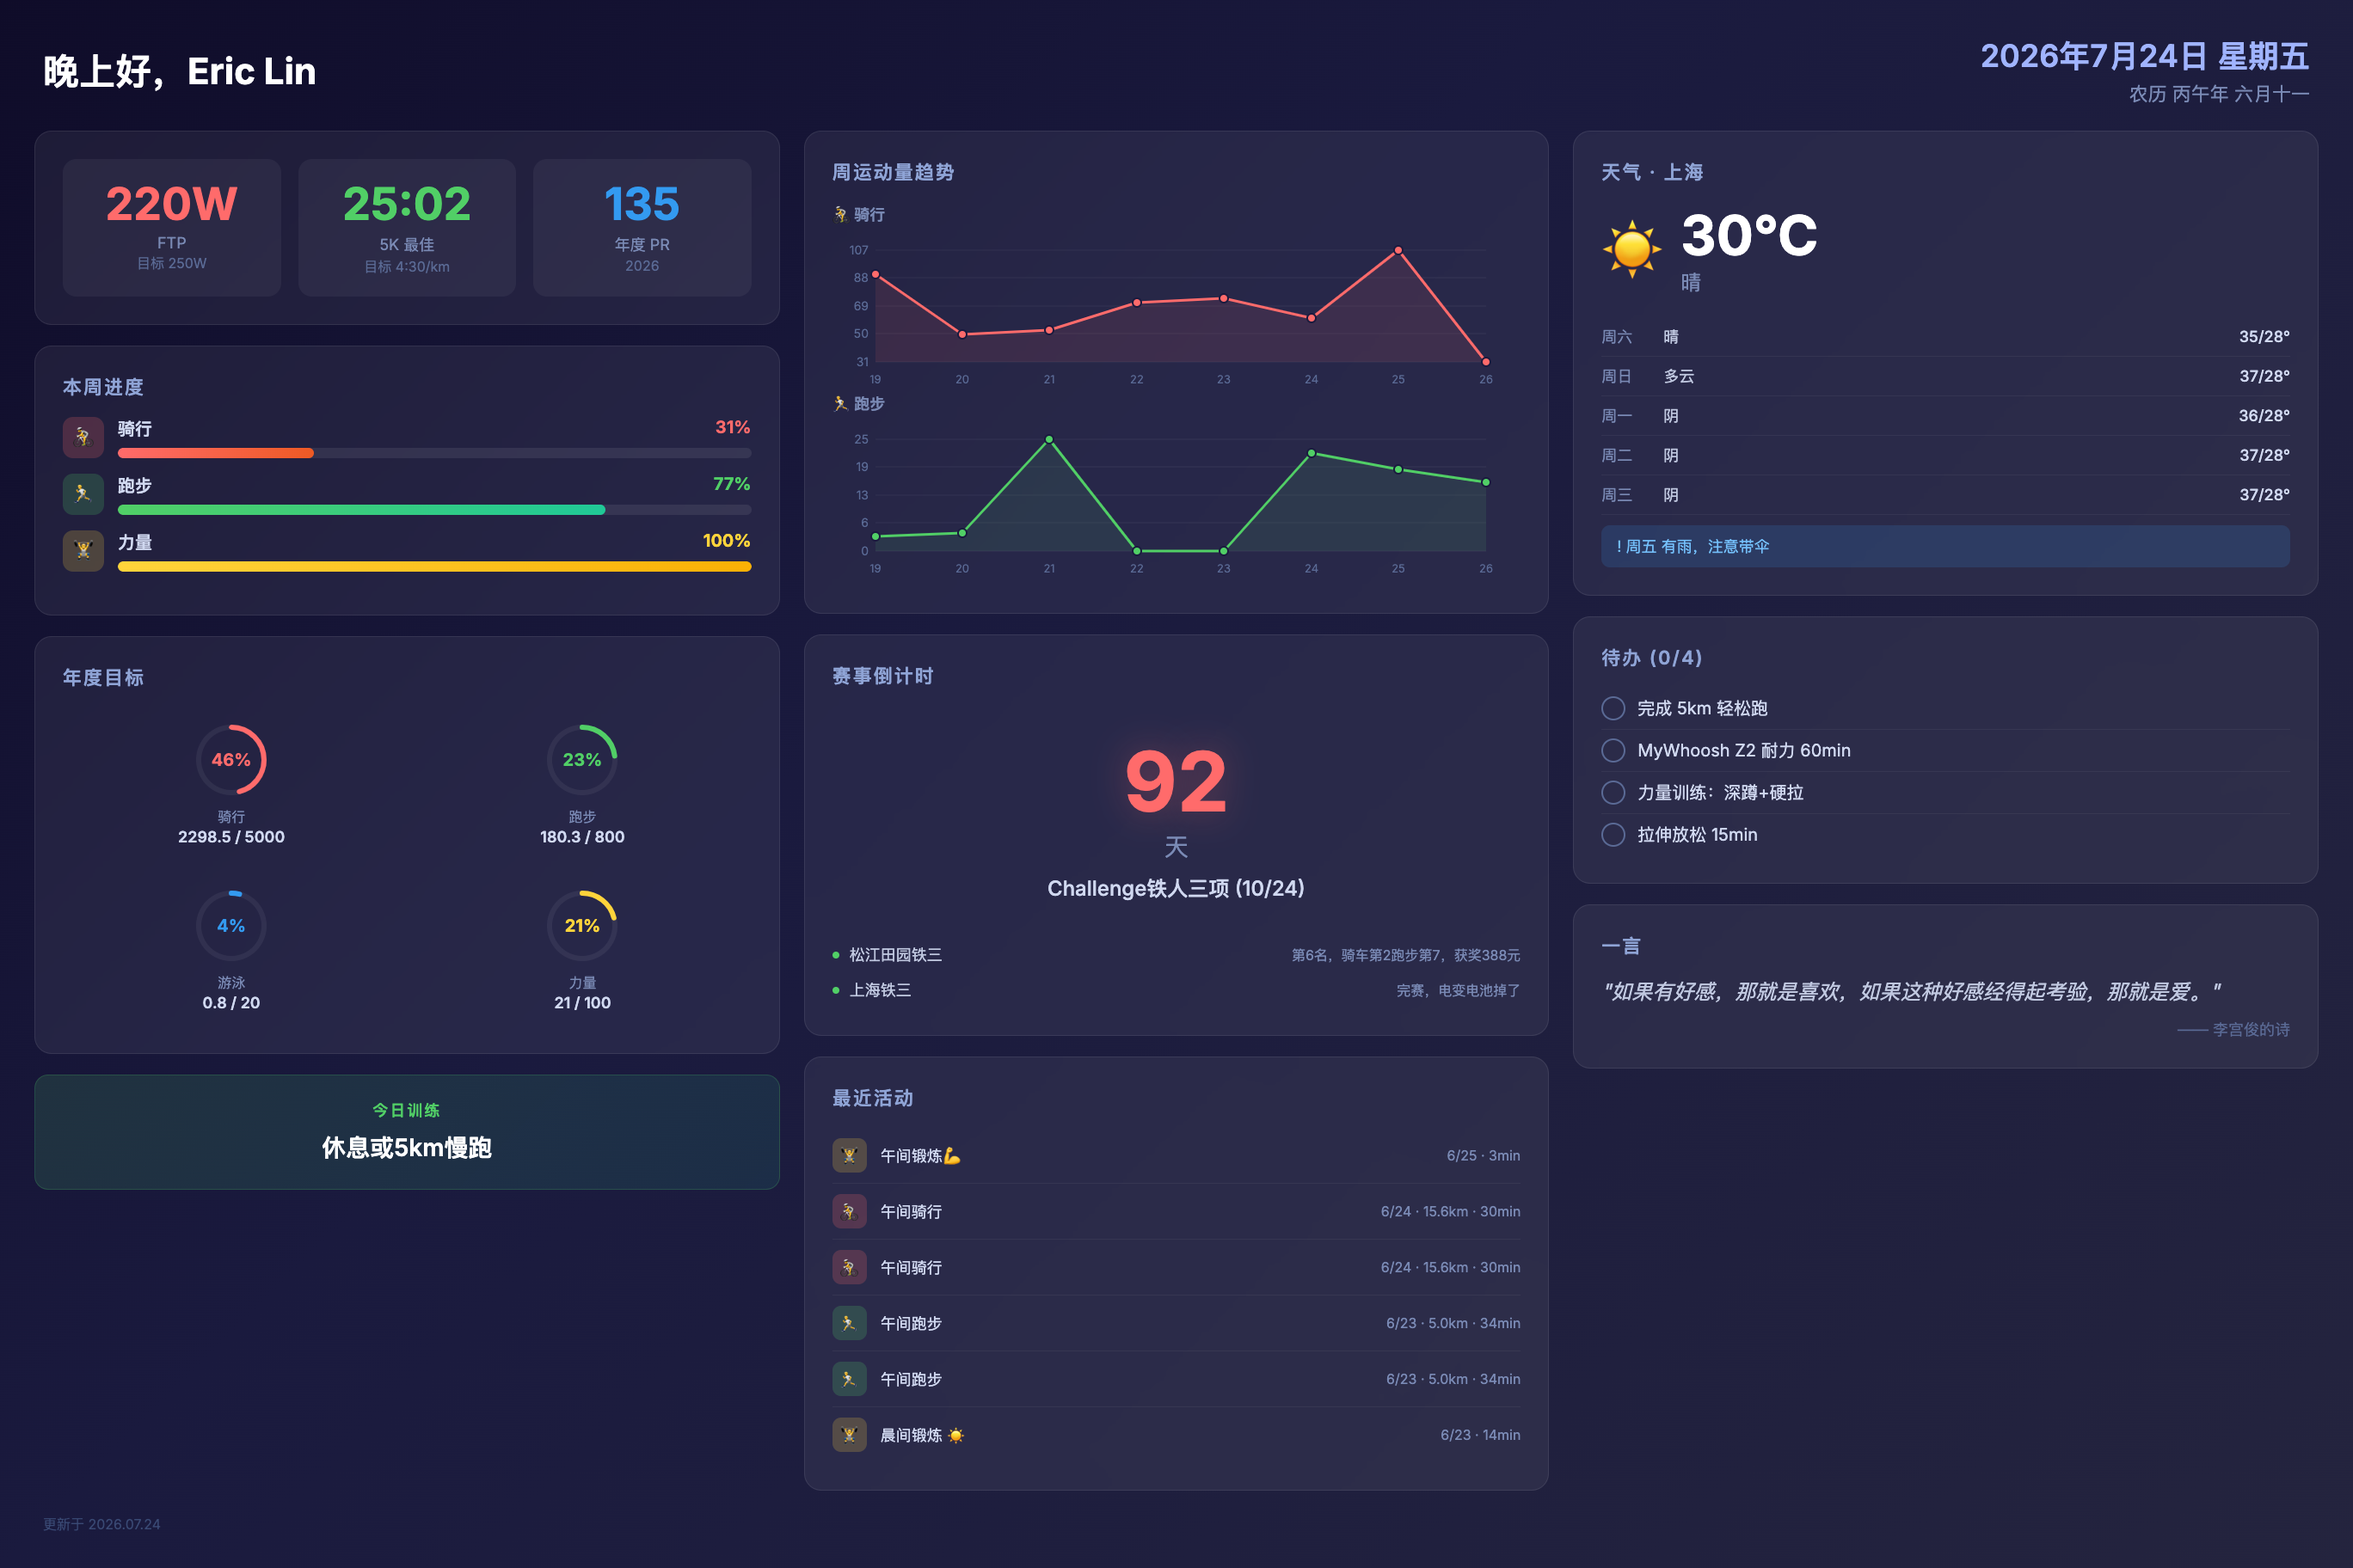
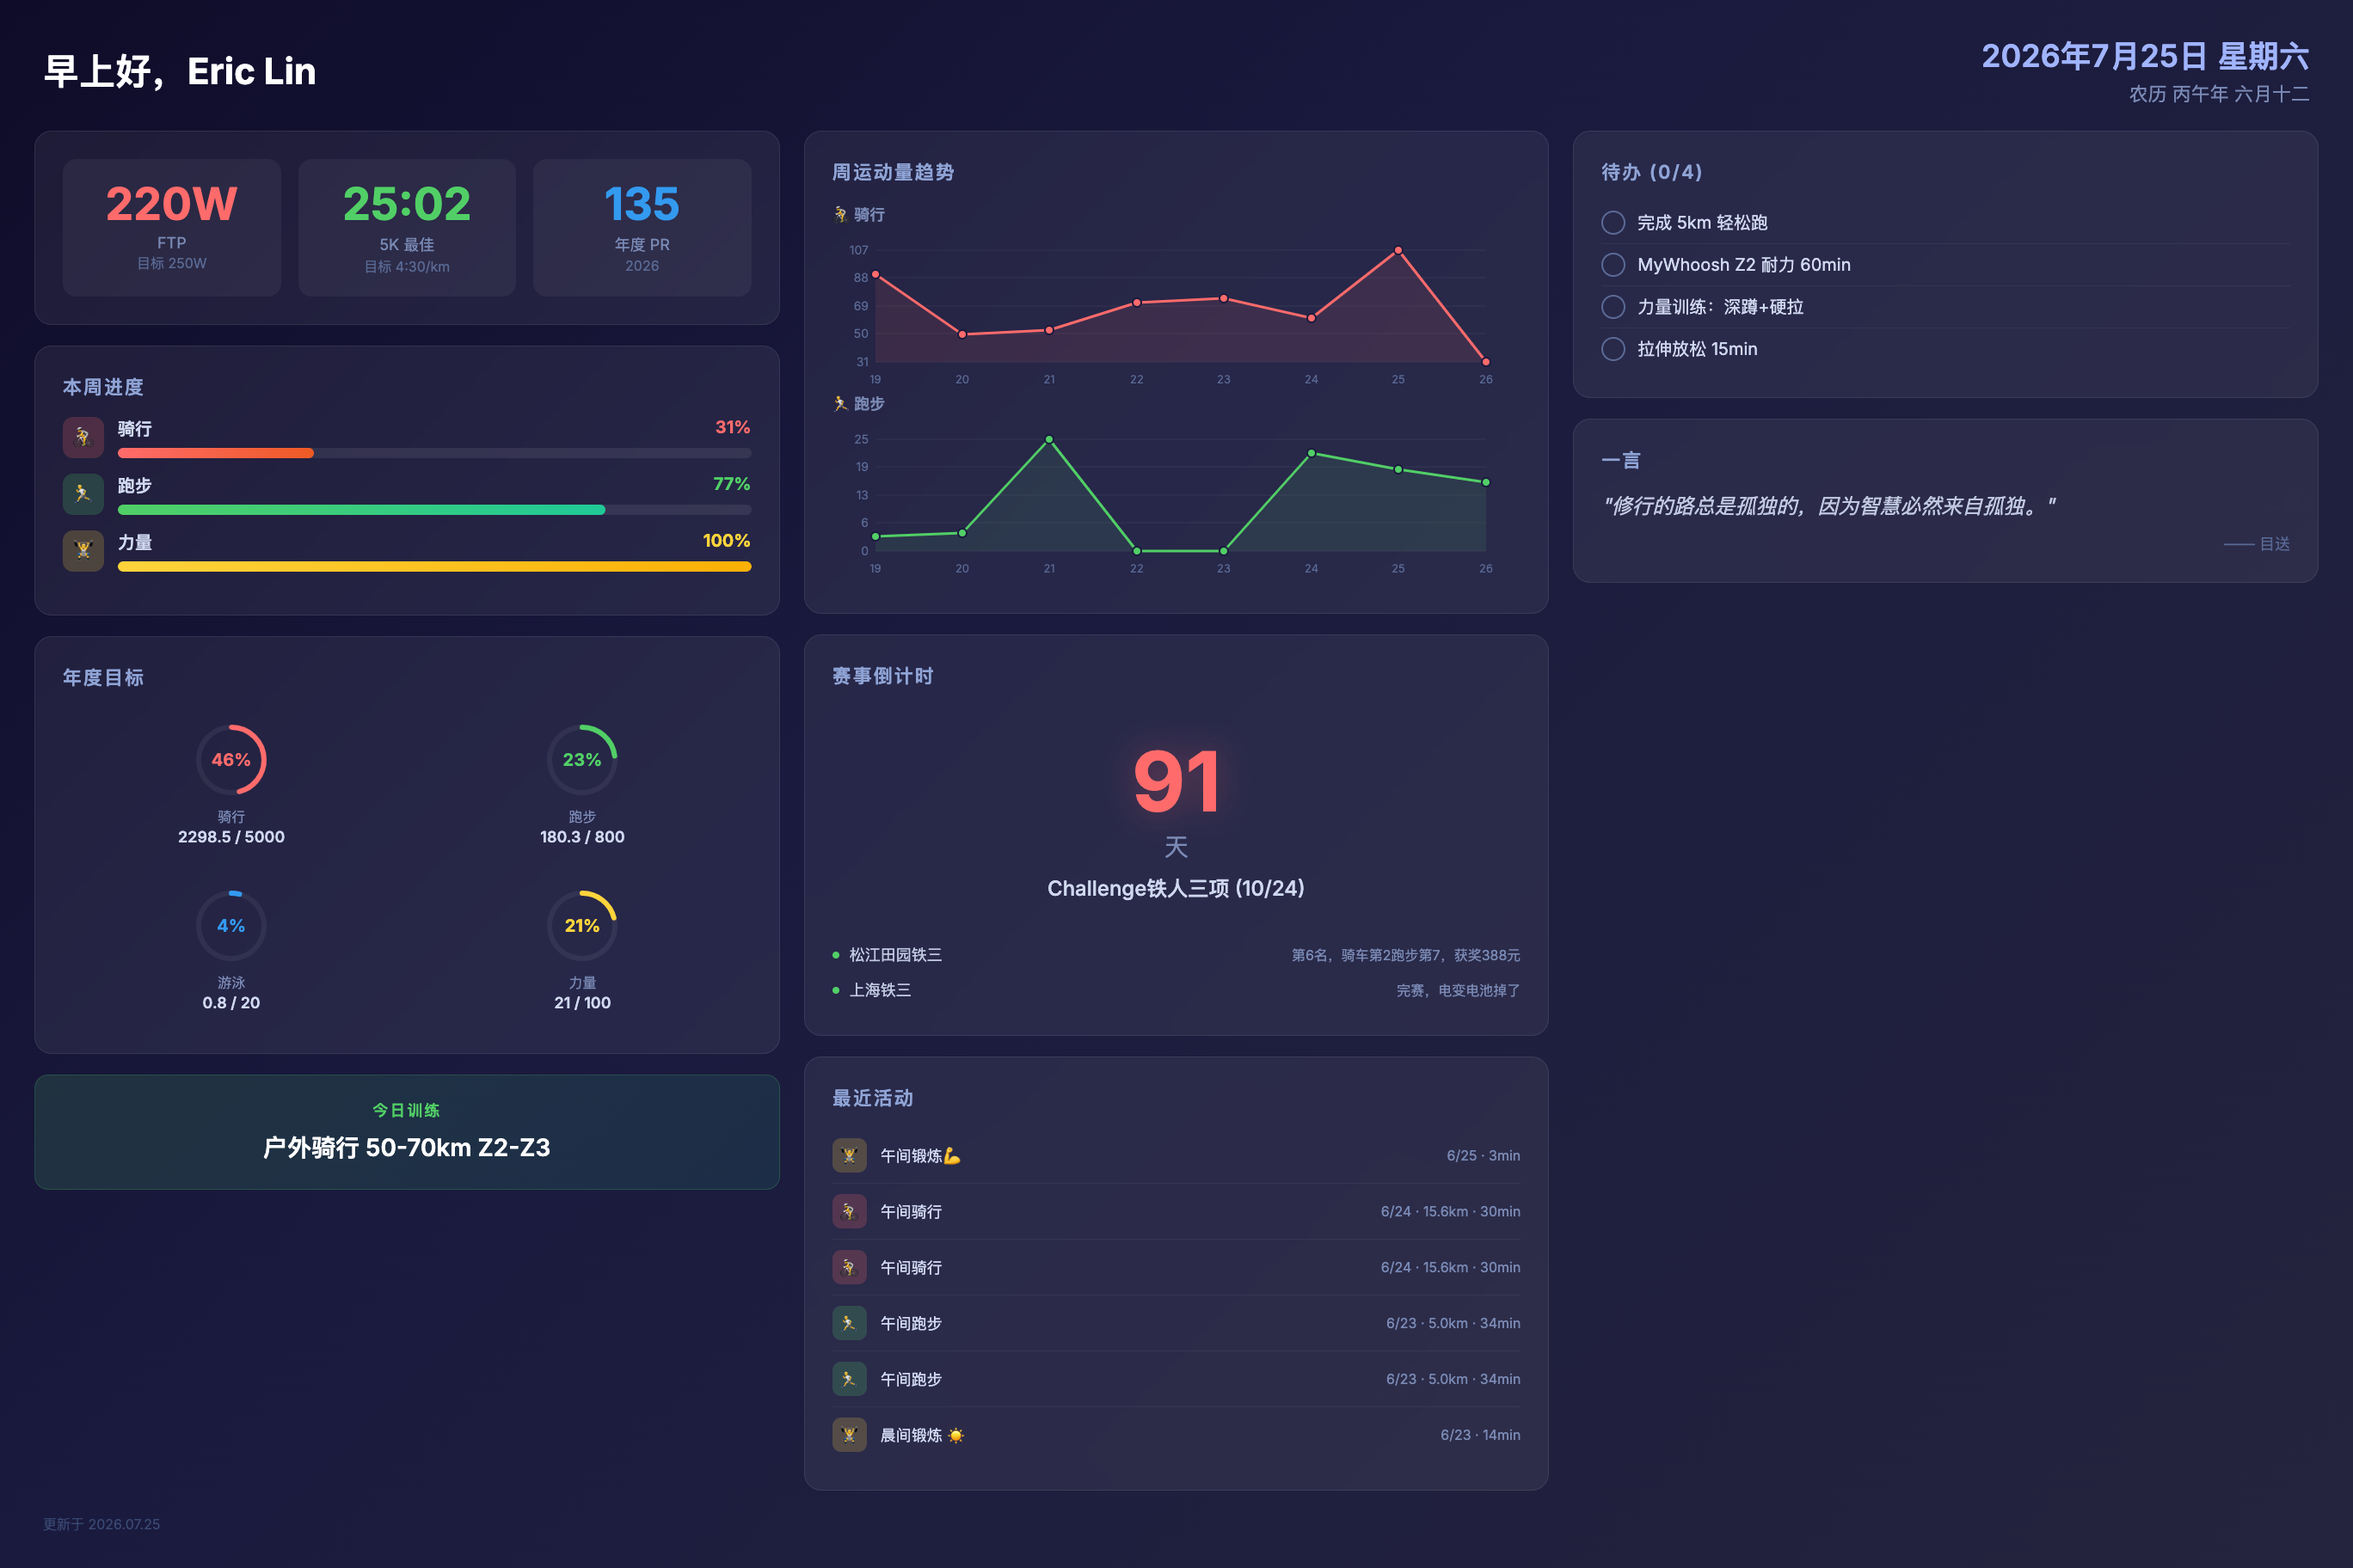
deploy: 2026-07-25-07:00

diff --git a/screensaver.html b/screensaver.html
@@ -490,13 +490,13 @@ html, body {
 <!-- ===== TOP BAR ===== -->
 <div class="top-bar">
   <div>
-    <div class="greeting">晚上好，Eric Lin</div>
+    <div class="greeting">早上好，Eric Lin</div>
     
   </div>
   <div class="date-info">
-    <div class="solar-date">2026年7月24日 星期五</div>
+    <div class="solar-date">2026年7月25日 星期六</div>
     
-    <div class="lunar-date">农历 丙午年 六月十一</div>
+    <div class="lunar-date">农历 丙午年 六月十二</div>
     
   </div>
 </div>
@@ -638,7 +638,7 @@ html, body {
   
   <div class="ai-today-card">
     <div class="ai-today-label">今日训练</div>
-    <div class="ai-today-text">休息或5km慢跑</div>
+    <div class="ai-today-text">户外骑行 50-70km Z2-Z3</div>
   </div>
   
 
@@ -732,7 +732,7 @@ html, body {
   <div class="card">
     <div class="card-title">赛事倒计时</div>
     <div class="race-countdown">
-      <div class="countdown-number">92</div>
+      <div class="countdown-number">91</div>
       <div class="countdown-unit">天</div>
       <div class="countdown-name">Challenge铁人三项 (10/24)</div>
     </div>
@@ -805,58 +805,6 @@ html, body {
 
   <!-- Weather -->
   
-  <div class="card">
-    <div class="card-title">天气 · 上海</div>
-    <div class="weather-current">
-      <div class="weather-icon-big">☀</div>
-      <div>
-        <div class="weather-temp-big">30°C</div>
-        <div class="weather-desc">晴</div>
-      </div>
-    </div>
-    
-    
-    <div class="forecast-row">
-      <div class="forecast-day">周六</div>
-      <div class="forecast-desc">晴</div>
-      <div class="forecast-precip"></div>
-      <div class="forecast-range">35/28°</div>
-    </div>
-    
-    <div class="forecast-row">
-      <div class="forecast-day">周日</div>
-      <div class="forecast-desc">多云</div>
-      <div class="forecast-precip"></div>
-      <div class="forecast-range">37/28°</div>
-    </div>
-    
-    <div class="forecast-row">
-      <div class="forecast-day">周一</div>
-      <div class="forecast-desc">阴</div>
-      <div class="forecast-precip"></div>
-      <div class="forecast-range">36/28°</div>
-    </div>
-    
-    <div class="forecast-row">
-      <div class="forecast-day">周二</div>
-      <div class="forecast-desc">阴</div>
-      <div class="forecast-precip"></div>
-      <div class="forecast-range">37/28°</div>
-    </div>
-    
-    <div class="forecast-row">
-      <div class="forecast-day">周三</div>
-      <div class="forecast-desc">阴</div>
-      <div class="forecast-precip"></div>
-      <div class="forecast-range">37/28°</div>
-    </div>
-    
-    
-    
-    <div class="rain-alert">! 周五 有雨，注意带伞</div>
-    
-  </div>
-  
 
   <!-- Todos -->
   
@@ -902,9 +850,9 @@ html, body {
   
   <div class="card">
     <div class="card-title">一言</div>
-    <div class="quote-text">"如果有好感，那就是喜欢，如果这种好感经得起考验，那就是爱。"</div>
+    <div class="quote-text">"修行的路总是孤独的，因为智慧必然来自孤独。"</div>
     
-    <div class="quote-from">—— 李宫俊的诗</div>
+    <div class="quote-from">—— 目送</div>
     
   </div>
   
@@ -913,7 +861,7 @@ html, body {
 
 <!-- ===== BOTTOM BAR ===== -->
 <div class="bottom-bar">
-  <div class="update-time">更新于 2026.07.24</div>
+  <div class="update-time">更新于 2026.07.25</div>
 </div>
 
 </div>

diff --git a/life.html b/life.html
@@ -89,7 +89,7 @@ html, body {
 <table class="header-table">
   <tr>
     <td class="header-left">生活</td>
-    <td class="header-right">2026.07.24</td>
+    <td class="header-right">2026.07.25</td>
   </tr>
 </table>
 
@@ -133,84 +133,16 @@ html, body {
 
 <!-- ===== 天气 ===== -->
 
-<div class="box">
-  <p class="section-title">☀ 天气 · 上海</p>
-  <table class="weather-table">
-    <tr>
-      <td class="weather-icon">*</td>
-      <td class="weather-temp">30°C</td>
-      <td class="weather-desc">晴</td>
-    </tr>
-  </table>
-  
-  <table class="forecast-table">
-    
-    <tr>
-      <td class="forecast-day">周六</td>
-      <td class="forecast-icon">*</td>
-      <td>晴</td>
-      <td class="forecast-range">35/28°C</td>
-    </tr>
-    
-    <tr>
-      <td class="forecast-day">周日</td>
-      <td class="forecast-icon">~</td>
-      <td>多云</td>
-      <td class="forecast-range">37/28°C</td>
-    </tr>
-    
-    <tr>
-      <td class="forecast-day">周一</td>
-      <td class="forecast-icon">~</td>
-      <td>阴</td>
-      <td class="forecast-range">36/28°C</td>
-    </tr>
-    
-    <tr>
-      <td class="forecast-day">周二</td>
-      <td class="forecast-icon">~</td>
-      <td>阴</td>
-      <td class="forecast-range">37/28°C</td>
-    </tr>
-    
-    <tr>
-      <td class="forecast-day">周三</td>
-      <td class="forecast-icon">~</td>
-      <td>阴</td>
-      <td class="forecast-range">37/28°C</td>
-    </tr>
-    
-    <tr>
-      <td class="forecast-day">周四</td>
-      <td class="forecast-icon">~</td>
-      <td>阴</td>
-      <td class="forecast-range">40/28°C</td>
-    </tr>
-    
-    <tr>
-      <td class="forecast-day">周五</td>
-      <td class="forecast-icon">.</td>
-      <td>小毛雨</td>
-      <td class="forecast-range">34/29°C</td>
-    </tr>
-    
-  </table>
-  
-  
-  <div class="rain-alert">! 周五 有雨，注意带伞</div>
-  
-</div>
-
 
 <!-- ===== 今日 ===== -->
 <div class="box">
   <p class="section-title">📅 今日</p>
   <table class="data-table">
     <tr>
-      <td>2026年7月24日 星期四</td>
+      <td>2026年7月25日 星期五</td>
     </tr>
     <tr>
-      <td>农历丙午年 六月十一</td>
+      <td>农历丙午年 六月十二</td>
     </tr>
   </table>
 </div>
@@ -261,9 +193,9 @@ html, body {
 
 <div class="box">
   <p class="section-title">💬 一言</p>
-  <p class="quote-text">如果有好感，那就是喜欢，如果这种好感经得起考验，那就是爱。</p>
+  <p class="quote-text">修行的路总是孤独的，因为智慧必然来自孤独。</p>
   
-  <p class="quote-from">—— 李宫俊的诗</p>
+  <p class="quote-from">—— 目送</p>
   
 </div>
 

diff --git a/index.html b/index.html
@@ -74,7 +74,7 @@ html, body {
 <table class="header-table">
   <tr>
     <td class="header-left">Eric Lin · 运动</td>
-    <td class="header-right">2026.07.24</td>
+    <td class="header-right">2026.07.25</td>
   </tr>
 </table>
 
@@ -225,17 +225,10 @@ html, body {
 <div class="ai-plan">
   <div class="ai-plan-title">AI 训练建议</div>
   
-  <div class="ai-today">今日: 力量训练（全身）</div>
+  <div class="ai-today">今日: 户外骑行 60km Z2-Z3</div>
   
   
   <table class="ai-weekly">
-    
-    <tr>
-      <td class="day">周五</td>
-      
-      <td>力量训练（全身）</td>
-      
-    </tr>
     
     <tr>
       <td class="day">周六</td>
@@ -279,6 +272,13 @@ html, body {
       
     </tr>
     
+    <tr>
+      <td class="day">周五</td>
+      
+      <td>力量训练（全身）</td>
+      
+    </tr>
+    
   </table>
   
   
@@ -293,7 +293,7 @@ html, body {
   <p class="section-title">即将到来</p>
   
   <div class="countdown-box">
-    <div class="countdown-days">92</div>
+    <div class="countdown-days">91</div>
     <div class="countdown-label">距 Challenge铁人三项 (10/24)</div>
   </div>
   

diff --git a/work.html b/work.html
@@ -89,7 +89,7 @@ html, body {
 <table class="header-table">
   <tr>
     <td class="header-left">工作</td>
-    <td class="header-right">2026.07.24</td>
+    <td class="header-right">2026.07.25</td>
   </tr>
 </table>
 
